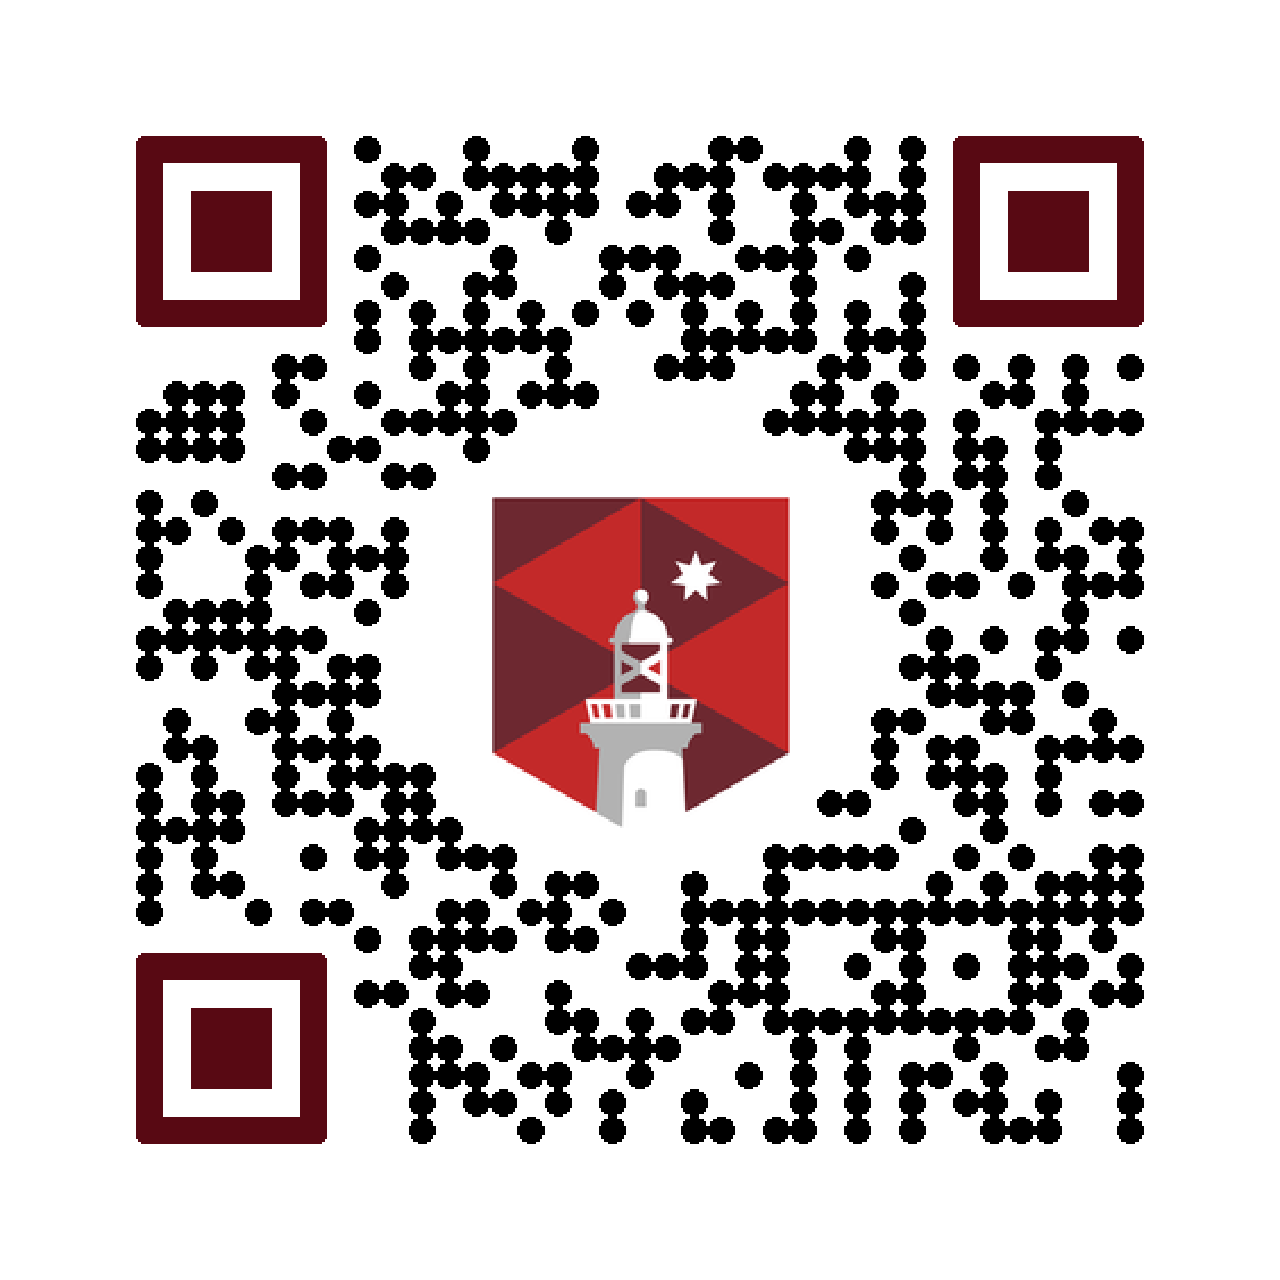
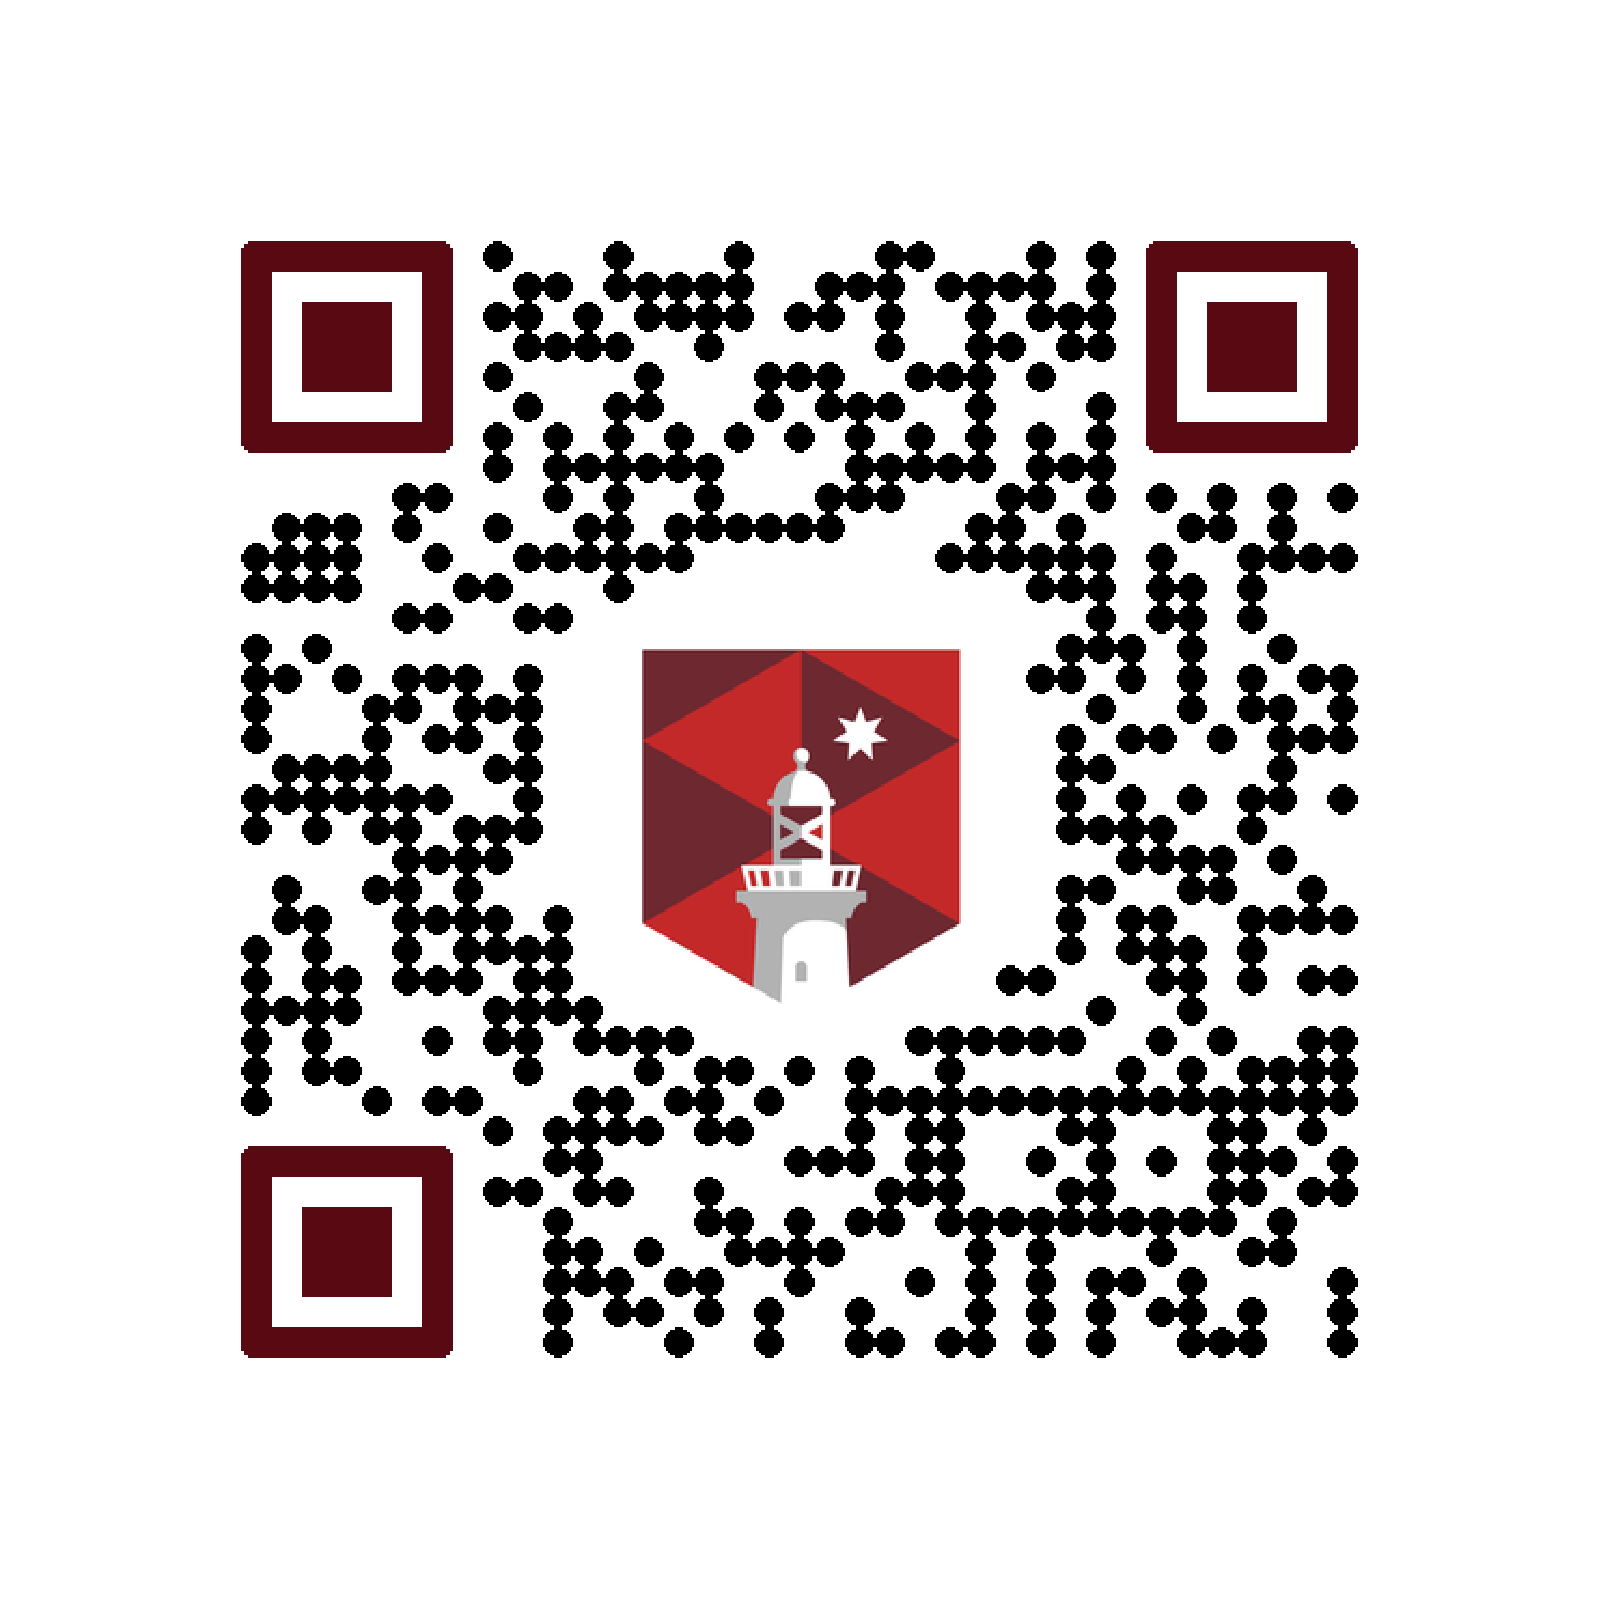
Preset-specific MQ/UQ redundancy: pad=0.22, quiet zone=8, min size=1600, occlusion=0.12, qr_scale=14; regenerate images

Changed region(s): [[0.0938, 0.0938, 0.9062, 0.9062]]

diff --git a/src/branded_qr.py b/src/branded_qr.py
@@ -16,6 +16,13 @@ UNIVERSITY_PRESETS = {
     "mq": {
         "logo_path": "data/mq_colour.png",
         "finder_dark_color": None,
+        # Preset-specific robustness overrides
+        "pad_frac": 0.22,
+        "border_modules": 8,
+        "min_img_size": 1600,
+        "occlusion_threshold": 0.12,
+        "qr_scale": 14,
+        "min_target_frac": 0.20,
     },
     "unisq": {
         "logo_path": "data/unisq_shield_plain.png",
@@ -29,6 +36,13 @@ UNIVERSITY_PRESETS = {
     "uq": {
         "logo_path": "data/uqlogo.png",
         "finder_dark_color": None,
+        # Preset-specific robustness overrides
+        "pad_frac": 0.22,
+        "border_modules": 8,
+        "min_img_size": 1600,
+        "occlusion_threshold": 0.12,
+        "qr_scale": 14,
+        "min_target_frac": 0.20,
     },
 }
 
@@ -125,6 +139,19 @@ def make_branded_qr(
             logo_path = preset.get("logo_path")
         if finder_dark_color is None and preset.get("finder_dark_color") is not None:
             finder_dark_color = preset.get("finder_dark_color")
+        # Apply preset-specific robustness overrides
+        if preset.get("pad_frac") is not None:
+            pad_frac = preset["pad_frac"]
+        if preset.get("border_modules") is not None:
+            border_modules = preset["border_modules"]
+        if preset.get("min_img_size") is not None:
+            min_img_size = preset["min_img_size"]
+        if preset.get("occlusion_threshold") is not None:
+            occlusion_threshold = preset["occlusion_threshold"]
+        if preset.get("qr_scale") is not None:
+            qr_scale = preset["qr_scale"]
+        if preset.get("min_target_frac") is not None:
+            min_target_frac = preset["min_target_frac"]
         # If a preset doesn't set finder_dark_color, we keep sampling from logo (finder_from_logo=True)
 
     if logo_path is None:
